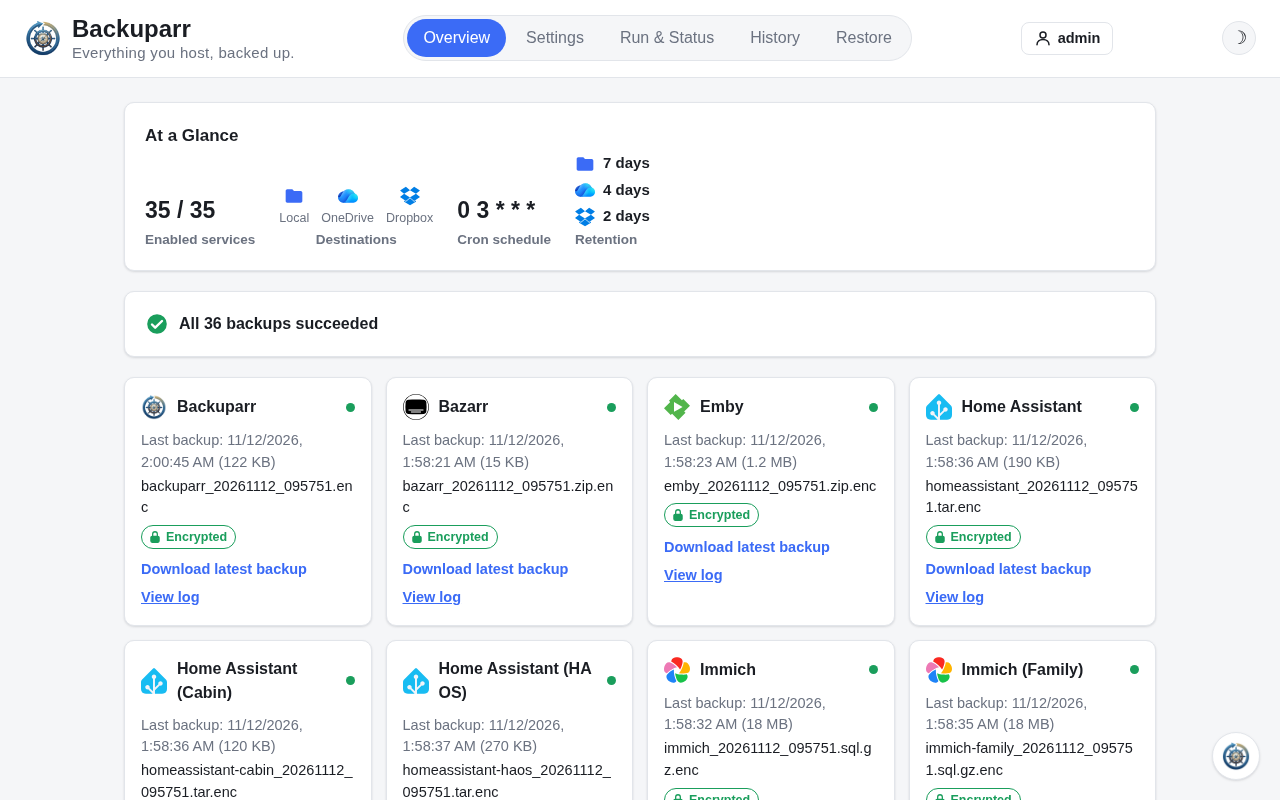
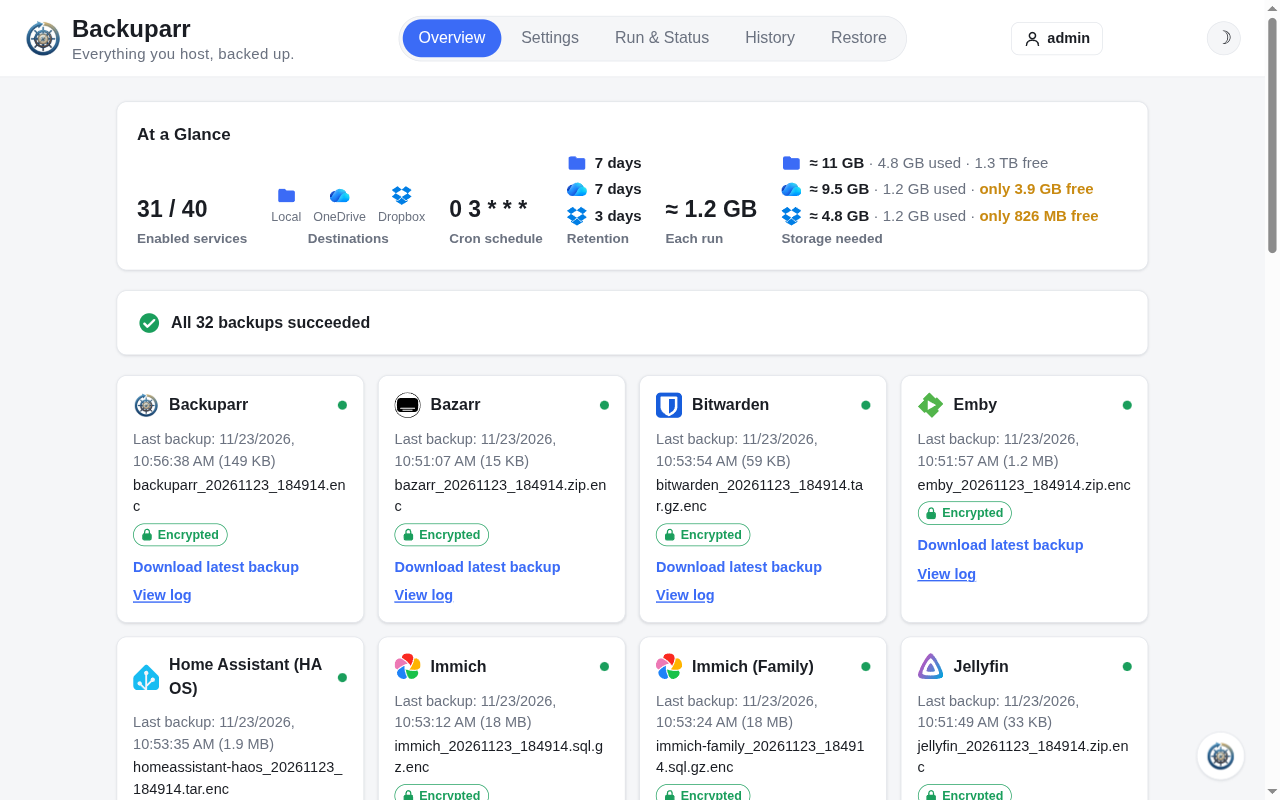
Docs: Overview and Settings screenshots with the storage estimate
Retaken from the full app stack: the Overview's Each run and Storage
needed tiles (Local, OneDrive and Dropbox, with real free space) and the
line under Local Storage's retention in Settings. Alt text updated.

diff --git a/README.md b/README.md
@@ -29,8 +29,8 @@ If you like Backuparr, give it a ⭐ star - it helps the project grow.
 
 <table>
   <tr>
-    <td><img src="docs/screenshots/overview.png" alt="Overview tab: enabled services, destinations, schedule and retention, a line saying all 36 backups succeeded, and each app's last backup"><br><b>Overview</b></td>
-    <td><img src="docs/screenshots/settings.png" alt="Settings tab: apps grouped by category on the left, each category folding away under a header with its enabled count, Server open on Backuparr's own card, and destinations on the right"><br><b>Settings</b></td>
+    <td><img src="docs/screenshots/overview.png" alt="Overview tab: enabled services, destinations, schedule, retention, what each run uploads and the storage each destination needs beside what's used and free, a line saying all 32 backups succeeded, and each app's last backup"><br><b>Overview</b></td>
+    <td><img src="docs/screenshots/settings.png" alt="Settings tab: apps grouped by category on the left, each category folding away under a header with its enabled count, Server open on Backuparr's own card, and destinations on the right, Local Storage's retention saying how many backups of each app it keeps and their size"><br><b>Settings</b></td>
   </tr>
   <tr>
     <td><img src="docs/screenshots/run.png" alt="Run and Status tab: a backup in progress with its live log"><br><b>Run &amp; Status</b></td>

diff --git a/docs/getting-started/first-run.md b/docs/getting-started/first-run.md
@@ -24,7 +24,7 @@ nav_order: 4
 6. Set retention and a schedule under **Schedule & Notifications**.
 7. Click **Save settings**.
 
-![Settings tab: apps grouped by category on the left, each category folding away under a header with its enabled count, Server open on Backuparr's own card, and destinations on the right]({{ '/screenshots/settings.png' | relative_url }})
+![Settings tab: apps grouped by category on the left, each category folding away under a header with its enabled count, Server open on Backuparr's own card, and destinations on the right, Local Storage's retention saying how many backups of each app it keeps and their size]({{ '/screenshots/settings.png' | relative_url }})
 
 Then click **Run backup now** on **Run & Status** to make your first backup.
 See [Backups and history](../backups.md) for the schedule, retention, logs and

diff --git a/docs/index.md b/docs/index.md
@@ -27,7 +27,7 @@ explains what Backuparr protects, how, and what it leaves to you.
 [Get started](getting-started.md){: .btn .btn-primary }
 [View on GitHub](https://github.com/rsaturns/backuparr){: .btn }
 
-![Overview tab: enabled services, destinations, schedule and retention, a line saying all 36 backups succeeded, and each app's last backup](screenshots/overview.png)
+![Overview tab: enabled services, destinations, schedule, retention, what each run uploads and the storage each destination needs beside what's used and free, a line saying all 32 backups succeeded, and each app's last backup](screenshots/overview.png)
 
 ## Where to find things
 
